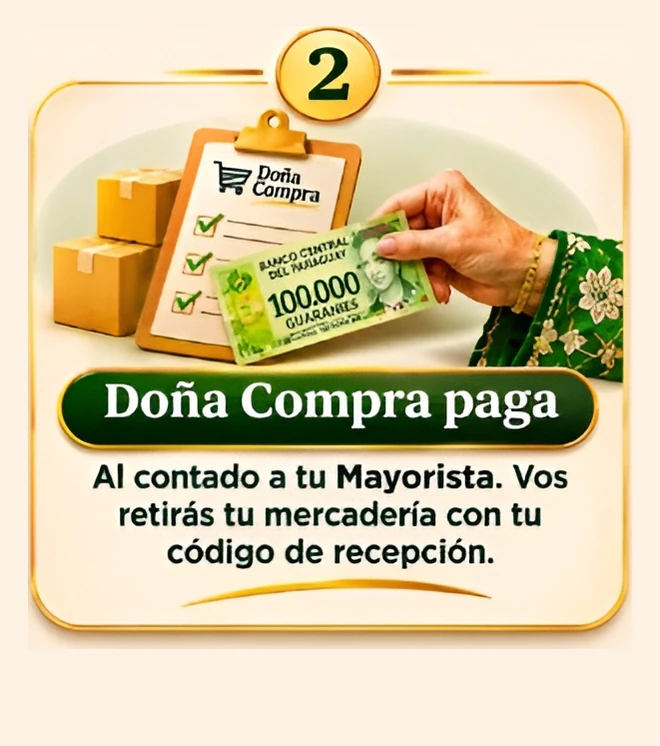
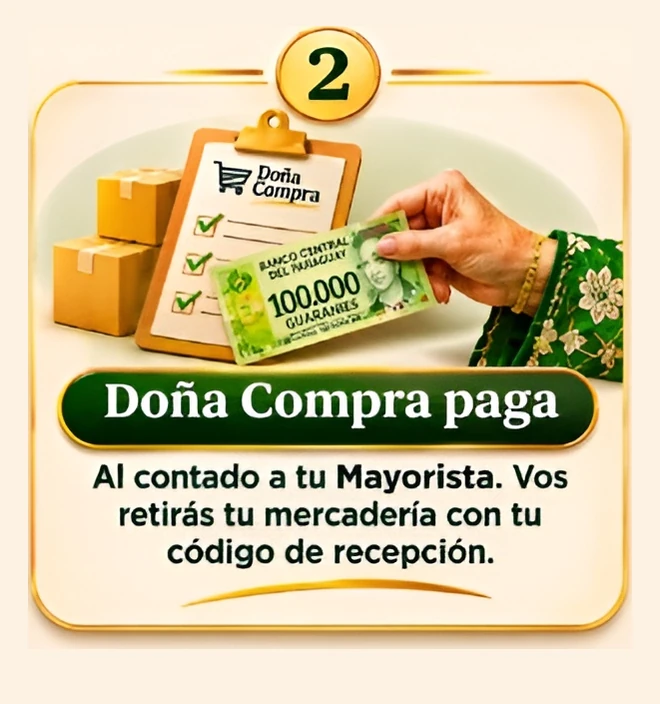
Achica un 6 por ciento la primera tarjeta de los pasos
Con el area del marco igualada, la primera se seguia leyendo un poco
mas grande: su marco es mas alto que ancho y la altura pesa mas que el
ancho a la hora de mirar.

Se le saca un 6 por ciento. Su marco pasa de 543x645 a 510x606, contra
los 603x580 y 607x577 de las otras dos. Probados tambien 0,88, que ya
la dejaba notoriamente angosta, y 1,00, que es de donde se viene.

El lienzo de las tres baja de 660x746 a 660x704, asi que la seccion
entera queda un poco mas compacta.

diff --git a/Doña Compra.dc.html b/Doña Compra.dc.html
@@ -668,21 +668,23 @@
          para que el rectangulo de cada archivo no se recorte contra el fondo. -->
     <section style="background:#FDF2E3;border-top:1px solid rgba(22,57,35,0.12)">
       <div style="max-width:1280px;margin:0 auto;padding:clamp(44px,7vw,90px) clamp(18px,4vw,40px)">
-        <!-- Las tres son archivos del mismo tamano (660x746), emparejados a
+        <!-- Las tres son archivos del mismo tamano (660x704), emparejados a
              mano con scratchpad/pasos_v2.py. Cada original traia su marco
              dorado con una proporcion distinta: 0,84 la primera, que es
              vertical, y 1,04 las otras dos, casi cuadradas. Igualar el ancho
              dejaba a la primera un cuarto mas alta y se seguia viendo mas
              grande, asi que se igualo el AREA del marco: la primera queda un
              poco mas angosta y un poco mas alta, y las tres pesan lo mismo.
+             Aun asi la primera se leia algo mas grande, porque la altura pesa
+             mas que el ancho al mirar, asi que lleva un 6 por ciento menos.
              Van alineadas arriba, para que las tres chapas con el numero
              queden a la misma altura. Por eso aca no hay aspect-ratio ni
              object-fit: no hace falta forzar nada desde el CSS. -->
         <h2 style="font-family:Montserrat,sans-serif;font-weight:600;font-size:clamp(26px,3.6vw,46px);line-height:1.06;color:#163923;margin:0 0 26px">Tus tres pasos</h2>
         <ol style="list-style:none;margin:0;padding:0;display:grid;grid-template-columns:repeat(auto-fit,minmax(min(280px,100%),1fr));gap:18px;align-items:start">
-          <li><img src="assets/pasos/paso-1-vos-elegis.webp?v=5" width="660" height="746" loading="lazy" decoding="async" alt="Paso 1. Vos eleg&iacute;s: los productos y tu mayorista que ya conoc&eacute;s. Una bolsa de Do&ntilde;a Compra junto a un carrito cargado de cajas." style="width:100%;height:auto;display:block;border-radius:10px" /></li>
-          <li><img src="assets/pasos/paso-2-dona-compra-paga.webp?v=5" width="660" height="746" loading="lazy" decoding="async" alt="Paso 2. Do&ntilde;a Compra paga al contado a tu mayorista. Vos retir&aacute;s tu mercader&iacute;a con tu c&oacute;digo de recepci&oacute;n." style="width:100%;height:auto;display:block;border-radius:10px" /></li>
-          <li><img src="assets/pasos/paso-3-pagas-en-30-dias.webp?v=5" width="660" height="746" loading="lazy" decoding="async" alt="Paso 3. Pag&aacute;s en 30 d&iacute;as como m&aacute;ximo, desde el retiro, por transferencia, alias, Mango o Tigo Money." style="width:100%;height:auto;display:block;border-radius:10px" /></li>
+          <li><img src="assets/pasos/paso-1-vos-elegis.webp?v=6" width="660" height="704" loading="lazy" decoding="async" alt="Paso 1. Vos eleg&iacute;s: los productos y tu mayorista que ya conoc&eacute;s. Una bolsa de Do&ntilde;a Compra junto a un carrito cargado de cajas." style="width:100%;height:auto;display:block;border-radius:10px" /></li>
+          <li><img src="assets/pasos/paso-2-dona-compra-paga.webp?v=6" width="660" height="704" loading="lazy" decoding="async" alt="Paso 2. Do&ntilde;a Compra paga al contado a tu mayorista. Vos retir&aacute;s tu mercader&iacute;a con tu c&oacute;digo de recepci&oacute;n." style="width:100%;height:auto;display:block;border-radius:10px" /></li>
+          <li><img src="assets/pasos/paso-3-pagas-en-30-dias.webp?v=6" width="660" height="704" loading="lazy" decoding="async" alt="Paso 3. Pag&aacute;s en 30 d&iacute;as como m&aacute;ximo, desde el retiro, por transferencia, alias, Mango o Tigo Money." style="width:100%;height:auto;display:block;border-radius:10px" /></li>
         </ol>
       </div>
     </section>

diff --git a/index.html b/index.html
@@ -668,21 +668,23 @@
          para que el rectangulo de cada archivo no se recorte contra el fondo. -->
     <section style="background:#FDF2E3;border-top:1px solid rgba(22,57,35,0.12)">
       <div style="max-width:1280px;margin:0 auto;padding:clamp(44px,7vw,90px) clamp(18px,4vw,40px)">
-        <!-- Las tres son archivos del mismo tamano (660x746), emparejados a
+        <!-- Las tres son archivos del mismo tamano (660x704), emparejados a
              mano con scratchpad/pasos_v2.py. Cada original traia su marco
              dorado con una proporcion distinta: 0,84 la primera, que es
              vertical, y 1,04 las otras dos, casi cuadradas. Igualar el ancho
              dejaba a la primera un cuarto mas alta y se seguia viendo mas
              grande, asi que se igualo el AREA del marco: la primera queda un
              poco mas angosta y un poco mas alta, y las tres pesan lo mismo.
+             Aun asi la primera se leia algo mas grande, porque la altura pesa
+             mas que el ancho al mirar, asi que lleva un 6 por ciento menos.
              Van alineadas arriba, para que las tres chapas con el numero
              queden a la misma altura. Por eso aca no hay aspect-ratio ni
              object-fit: no hace falta forzar nada desde el CSS. -->
         <h2 style="font-family:Montserrat,sans-serif;font-weight:600;font-size:clamp(26px,3.6vw,46px);line-height:1.06;color:#163923;margin:0 0 26px">Tus tres pasos</h2>
         <ol style="list-style:none;margin:0;padding:0;display:grid;grid-template-columns:repeat(auto-fit,minmax(min(280px,100%),1fr));gap:18px;align-items:start">
-          <li><img src="assets/pasos/paso-1-vos-elegis.webp?v=5" width="660" height="746" loading="lazy" decoding="async" alt="Paso 1. Vos eleg&iacute;s: los productos y tu mayorista que ya conoc&eacute;s. Una bolsa de Do&ntilde;a Compra junto a un carrito cargado de cajas." style="width:100%;height:auto;display:block;border-radius:10px" /></li>
-          <li><img src="assets/pasos/paso-2-dona-compra-paga.webp?v=5" width="660" height="746" loading="lazy" decoding="async" alt="Paso 2. Do&ntilde;a Compra paga al contado a tu mayorista. Vos retir&aacute;s tu mercader&iacute;a con tu c&oacute;digo de recepci&oacute;n." style="width:100%;height:auto;display:block;border-radius:10px" /></li>
-          <li><img src="assets/pasos/paso-3-pagas-en-30-dias.webp?v=5" width="660" height="746" loading="lazy" decoding="async" alt="Paso 3. Pag&aacute;s en 30 d&iacute;as como m&aacute;ximo, desde el retiro, por transferencia, alias, Mango o Tigo Money." style="width:100%;height:auto;display:block;border-radius:10px" /></li>
+          <li><img src="assets/pasos/paso-1-vos-elegis.webp?v=6" width="660" height="704" loading="lazy" decoding="async" alt="Paso 1. Vos eleg&iacute;s: los productos y tu mayorista que ya conoc&eacute;s. Una bolsa de Do&ntilde;a Compra junto a un carrito cargado de cajas." style="width:100%;height:auto;display:block;border-radius:10px" /></li>
+          <li><img src="assets/pasos/paso-2-dona-compra-paga.webp?v=6" width="660" height="704" loading="lazy" decoding="async" alt="Paso 2. Do&ntilde;a Compra paga al contado a tu mayorista. Vos retir&aacute;s tu mercader&iacute;a con tu c&oacute;digo de recepci&oacute;n." style="width:100%;height:auto;display:block;border-radius:10px" /></li>
+          <li><img src="assets/pasos/paso-3-pagas-en-30-dias.webp?v=6" width="660" height="704" loading="lazy" decoding="async" alt="Paso 3. Pag&aacute;s en 30 d&iacute;as como m&aacute;ximo, desde el retiro, por transferencia, alias, Mango o Tigo Money." style="width:100%;height:auto;display:block;border-radius:10px" /></li>
         </ol>
       </div>
     </section>
